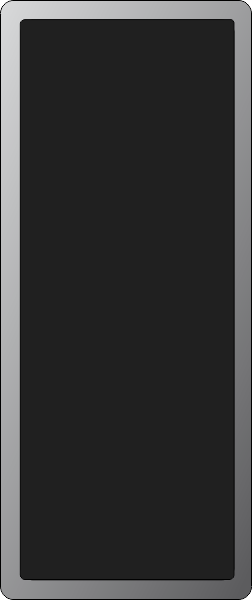
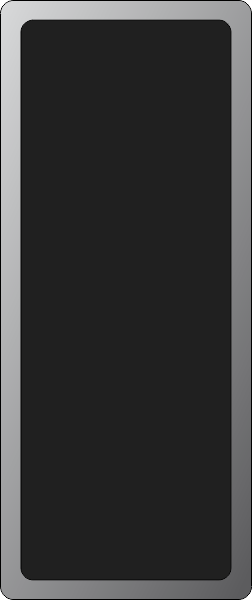
Finalizace základního sdílení, drobné úpravy a chybky.

diff --git a/www/lib/pilot.js b/www/lib/pilot.js
@@ -6,11 +6,19 @@
 var lp_img_lp = new Image();
 lp_img_lp.src = 'assets/lp.png';
 
+var lp_img_friend = new Image();
+lp_img_friend.src = 'assets/friend.png';
+
 var lp_img_tooltip = new Image();
 lp_img_tooltip.src = 'assets/tooltip.png';
 
 var lp_img_rocket = new Image();
 lp_img_rocket.src = 'assets/rocket.png';
+
+var lp_img_friends = new Image();
+lp_img_friends.src = 'assets/friends.png';
+var lp_img_friends2 = new Image();
+lp_img_friends2.src = 'assets/friends2.png';
 
 var lp_img_mision = new Image();
 lp_img_mision.src = 'assets/mise.png';
@@ -42,6 +50,8 @@ lp_pilot.vars = function() {
     lp_pilot._stop = false;
     lp_pilot.counter_title = undefined;
     lp_pilot._internal_blur = 5;
+    lp_pilot._friend_box = undefined;
+    lp_pilot._friends_htmlobject = undefined;
 };
 
 /**
@@ -49,9 +59,13 @@ lp_pilot.vars = function() {
  */
 lp_pilot.init = function() {
     lp_pilot.data = lp_pilot._server_load_pilot_data();
+
     if (!lp_pilot._add_pilot_position()) {
         return false;
     }
+
+    lp_pilot._render_friends_box();
+
 };
 
 /**
@@ -139,8 +153,142 @@ lp_pilot._add_pilot_position = function() {
     } else
     {
         lp_pilot.flight_progress();
+        return true;
     }
     return false;
+};
+
+/**
+ * return if has friends
+ * @returns {boolean|boolean}
+ */
+lp_pilot.count_of_friends = function() {
+    var count = 0;
+    var friend_index;
+    for (friend_index in lp_pilot.data.friends) {
+        count++;
+    }
+    return count;
+};
+
+/**
+ * Add position of friend to plan
+ * @private
+ */
+lp_pilot._render_friends_box = function() {
+    // Prepare main box
+    var count_of_friends = lp_pilot.count_of_friends();
+    if (count_of_friends===0) {
+        return;
+    }
+    // Create box for friends
+    // 600x252
+    var box_height = 600;
+    var dialog_image = lp_img_friends;
+    if (count_of_friends <= 2) {
+        box_height = box_height/2;
+        dialog_image = lp_img_friends2;
+    }
+
+    lp_pilot._friend_box = new Konva.Group({
+        x: 0,
+        y: lp_space.logo.height()+ (10*lp_space.scale_height),
+        width: 252*lp_space.scale_width,
+        height: box_height*lp_space.scale_height,
+        draggable: true,
+        opacity: 0.5,
+    });
+
+    var dialog6 = new Konva.Image({
+        x: 0,
+        y: 0,
+        width: lp_pilot._friend_box.width(),
+        height: lp_pilot._friend_box.height(),
+        image: dialog_image,
+    });
+
+    var info_text = lp_pilot._get_text(30*lp_space.scale_width,30*lp_space.scale_height, "Přátelé",
+        Math.round(15*lp_space.scale_width));
+    var info_text2 = lp_pilot._get_text(info_text.x(),info_text.y()+info_text.height()+(5*lp_space.scale_height), "" +
+        "Boxem lze pohybovat po obrazovce, Pokud jej nechcete, vypněte všechny sdílení v palubním deníku v sekci přátelé.",
+        Math.round(10*lp_space.scale_width), (252*lp_space.scale_width)-(80*lp_space.scale_width));
+
+    /*
+    var dialog_position = lp_pilot._friend_box.getAbsolutePosition();
+
+    lp_pilot._friends_htmlobject = document.createElement('div');
+    document.body.appendChild(lp_pilot._friends_htmlobject);
+
+    lp_pilot._friends_htmlobject.classList.add("friends_container");
+    lp_pilot._friends_htmlobject.style.position = 'absolute';
+    lp_pilot._friends_htmlobject.style.top = (dialog_position.y + info_text2.y() + info_text2.height() +10*lp_space.scale_height) + 'px';
+    lp_pilot._friends_htmlobject.style.left = (dialog_position.x + info_text.x()) + 'px';
+    lp_pilot._friends_htmlobject.style.color = "white";
+    lp_pilot._friends_htmlobject.style.width = (lp_pilot._friend_box.width()-info_text.x()-(40*lp_space.scale_width))+"px";
+    lp_pilot._friends_htmlobject.style.height = (lp_pilot._friend_box.height()- (info_text2.y() + info_text2.height())-(80*lp_space.scale_height))+"px";
+    lp_pilot._friends_htmlobject.style.overflowY = "auto";
+
+    // Load description from server
+    lp_pilot._friends_htmlobject.innerHTML = "jas hdajs jdhajshd jahsjdh jahsjdha jshdjha jshdjah jsdhja hsdjha jshdjash jdhsajkhd jsahkjd hakjdshkjahs kjdhsa jdhkjsadh";
+    */
+
+    lp_pilot._friend_box.add(dialog6);
+    lp_pilot._friend_box.add(info_text);
+    lp_pilot._friend_box.add(info_text2);
+    lp_space.add_to_space(lp_pilot._friend_box);
+
+
+    var friend_index;
+    var top = info_text2.y()+info_text2.height()+(10*lp_space.scale_width);
+
+    for (friend_index in lp_pilot.data.friends) {
+        var friend = lp_pilot.data.friends[friend_index];
+        var friend_text = lp_pilot._friend_text(friend);
+        var info_text_object = lp_pilot._get_text(info_text.x(), top, friend_text, Math.round(14*lp_space.scale_width), info_text2.width());
+        lp_pilot._friend_box.add(info_text_object);
+        top += info_text_object.height()+(10*lp_space.scale_width);
+    }
+
+    lp_space.draw();
+};
+
+/**
+ * @private
+ */
+lp_pilot._friend_text = function(friend_json) {
+
+    var friend_name = friend_json.name+" ("+friend_json.rank_name.toLowerCase()+")";
+    if (friend_json.actual_flight !== null) {
+        var source_planet = lp_planet.get_planet_name(friend_json.actual_flight.source_id);
+        var target_planet = lp_planet.get_planet_name(friend_json.actual_flight.target_id);
+        var actual_date = new Date();
+        var to_target = new Date(Date.parse(friend_json.actual_flight.finish_at));
+
+        var minute_difference = Math.round((to_target.getTime()-actual_date.getTime())/60000);
+        if (minute_difference < 0) {
+            // already on planet, but seems to be this branch unused due correct server response
+            friend_json.actual_position = friend_json.actual_flight.target_id;
+            friend_json.actual_flight = null;
+        } else {
+            // on the way
+            var hour = Math.floor(minute_difference/60);
+            var minute = Math.round(minute_difference%60);
+            return friend_name+" letí z planety "+source_planet+" na "+target_planet+" a bude tam za "+hour+"h "+minute+"min";
+        }
+    }
+
+    if (friend_json.actual_position !== null) {
+        if (friend_json.visited) {
+            return friend_json.name+ " učinil objev a je na planetě "+lp_planet.get_planet_name(friend_json.actual_position)
+        } else {
+            if (!lp_pilot.is_in_flight() &&  friend_json.actual_position === lp_planet.remove_planet_prefix(lp_pilot.get_pilot_position())) {
+                return friend_name+ " je na stejné planetě jako ty.";
+            } else {
+                return friend_name+ " je na planetě "+lp_planet.get_planet_name(friend_json.actual_position);
+            }
+        }
+    }
+    return friend_name+" je neznámo kde";
 };
 
 /**
@@ -229,7 +377,7 @@ lp_pilot._add_avatar = function(avatar_type, id, json_flight) {
         var saved = localStorage.getItem(lp_pilot.data.id + "rank");
         if (parseInt(saved) !== lp_pilot.data.rank_id) {
             localStorage.setItem(lp_pilot.data.id+"rank", lp_pilot.data.rank_id);
-            lp_space.messagebox("Gratulujeme, právě jsi získal hodnost "+lp_pilot.data.rank_name+"!");
+            lp_space.messagebox("Gratulujeme, právě jsi získal hodnost "+lp_pilot.data.rank_name.toLowerCase()+"!");
         }
     }
 };
@@ -415,7 +563,7 @@ lp_pilot.pilot_details = function() {
                          basic_size);
 
          var rank_name = lp_pilot._get_text(planet.x(), pilot_name.y()+pilot_name.height(),
-                        "Hodnost : "+lp_pilot.data.rank_name,
+                        "Hodnost : "+lp_pilot.data.rank_name.toLowerCase(),
                          basic_size, 140*lp_space.scale_width);
 
          lp_pilot.tooltip.add(pilot_name);
@@ -692,7 +840,7 @@ lp_pilot.flight_progress = function() {
 
         // Change title
         var hour_to = Math.floor(position.remain_time/60);
-        var min_to = position.remain_time%60;
+        var min_to = Math.round(position.remain_time%60);
 
         lp_planet.measure_title.text(hour_to+"h "+min_to+"min");
         lp_space.draw();
@@ -748,7 +896,6 @@ lp_pilot.set_planet_position = function(target_id) {
         "target_id": lp_planet.remove_planet_prefix(target_id),
         "new_name": null,
     }
-    // TODO json to server 4, zdá se, že to funguje. i bez odeslání.
 };
 
 /**

diff --git a/www/lib/plan.js b/www/lib/plan.js
@@ -36,6 +36,7 @@ lp_space.vars = function() {
     lp_space._messagebox = undefined;
     lp_space._cover = undefined;
     lp_space._text_object = undefined;
+    lp_space.logo = undefined;
 
     lp_space.div_space_id = "lp_space";
 
@@ -139,8 +140,7 @@ lp_space._createStage = function() {
         }
     });
 
-
-    var logo = new Konva.Image({
+    lp_space.logo = new Konva.Image({
         x:5*lp_space.scale_width,
         y:5*lp_space.scale_width,
         opacity: 1,
@@ -150,14 +150,16 @@ lp_space._createStage = function() {
         height: 70*lp_space.scale_width,
     });
 
-    logo.on("mouseenter", function() {lp_space.add_button_effect(logo,true, "#B3C6C6",lp_space._layer)});
-    logo.on("mouseleave", function() {lp_space.add_button_effect(logo,false, null, lp_space._layer)});
-    logo.on("click", function() {lp_action.go_to_deck_logbook()});
-    logo.on("tap", function() {lp_action.go_to_deck_logbook()});
+
+
+    lp_space.logo.on("mouseenter", function() {lp_space.add_button_effect(lp_space.logo,true, "#B3C6C6",lp_space._layer)});
+    lp_space.logo.on("mouseleave", function() {lp_space.add_button_effect(lp_space.logo,false, null, lp_space._layer)});
+    lp_space.logo.on("click", function() {lp_action.go_to_deck_logbook()});
+    lp_space.logo.on("tap", function() {lp_action.go_to_deck_logbook()});
 
     lp_space.stage.add(lp_space._layer);
     lp_space.add_to_space(lp_space._area);
-    lp_space.add_to_space(logo);
+    lp_space.add_to_space(lp_space.logo);
     lp_space._add_plannets();
     lp_space.draw();
 };
@@ -329,13 +331,14 @@ lp_space.get_activity = function(planet_id) {
          html = "<h2>"+response_json.name+"</h2>";
 
          html += "<div class='accessories mp_block'><span class='block_title'>Potřeby:</span><div>"+response_json.accessories+"</div></div>";
-         html += "<div class='output mp_block'><span class='block_title'>Splnění:</span><div>"+response_json.output+" <a href='"+lp_action.url+"/denik/objevy'>(nahrávej sem)</a></div></div>";
 
          html += "<div class='mp_block'><span class='block_title'>Popis aktivity:</span>";
          html += "<div class='main_description'>"+response_json.description+"</div>";
          html += "</div>";
 
          html += "<div class='category mp_block'><span class='block_title'>Věkové kategorie:</span><div>"+response_json.category+"</div></div>";
+
+         html += "<div class='output mp_block'><span class='block_title'>Splnění:</span><div>"+response_json.output+" <a href='"+lp_action.url+"/denik/objevy'>(nahrávej sem)</a></div></div>";
 
          if (response_json.notes !== null && response_json.notes !== "") {
              html += "<div class='notes mp_block'><span class='block_title'>Poznámky:</span>";

diff --git a/www/lib/action.js b/www/lib/action.js
@@ -28,40 +28,11 @@ lp_action.go_to_live_support_system = function() {
  */
 lp_action.on_resize = function() {
 
-    // TODO refactor to functions
     lp_space.stage.destroy();
 
-    lp_space.stage = undefined;
-    lp_space._layer = undefined;
-    lp_space._dialog_layer = undefined;
-    lp_space._area = undefined;
-    lp_space._earth = undefined;
-    lp_space._activity_dialog = undefined;
-    lp_space._messagebox = undefined;
-    lp_space._cover = undefined;
-    lp_space._text_object = undefined;
-
-    lp_planet.earth = undefined;
-    lp_planet.planets = {};
-    lp_planet.planet_data = {};
-    lp_planet.measure = undefined;
-    lp_planet.measure_title = undefined;
-    lp_planet.measure_source_id = undefined;
-    lp_planet.measure_target_id = undefined;
-    lp_planet.flight_counter = undefined;
-
-    lp_pilot._avatar_layer = undefined;
-    lp_pilot.data = undefined;
-    lp_pilot.avatar = undefined;
-    lp_pilot.tooltip = undefined;
-    lp_pilot._flight = undefined;
-    lp_pilot.flight_tooltip = undefined;
-    lp_pilot.dialog = undefined;
-    lp_pilot.counter = 10000;
-    lp_pilot._start_button = undefined;
-    lp_pilot._stop = false;
-    lp_pilot.counter_title = undefined;
-    lp_pilot._internal_blur = 5;
+    lp_space.vars();
+    lp_pilot.vars();
+    lp_planet.vars();
 
     lp_space.init();
 };

diff --git a/www/lib/planet.js b/www/lib/planet.js
@@ -315,6 +315,12 @@ lp_planet.click = function(planet_id) {
  * @returns {string|*}
  */
 lp_planet.get_planet_name = function(planet_id) {
+    planet_id = lp_planet.add_planet_prefix(planet_id);
+
+    if (lp_planet.planet_data[planet_id] === undefined) {
+        return "Neznámá "+lp_planet.remove_planet_prefix(lp_planet.planet_data[planet_id]);
+    }
+
     var planet_data = lp_planet.planet_data[planet_id];
 
     if (planet_data.type === "worm_hole") {
